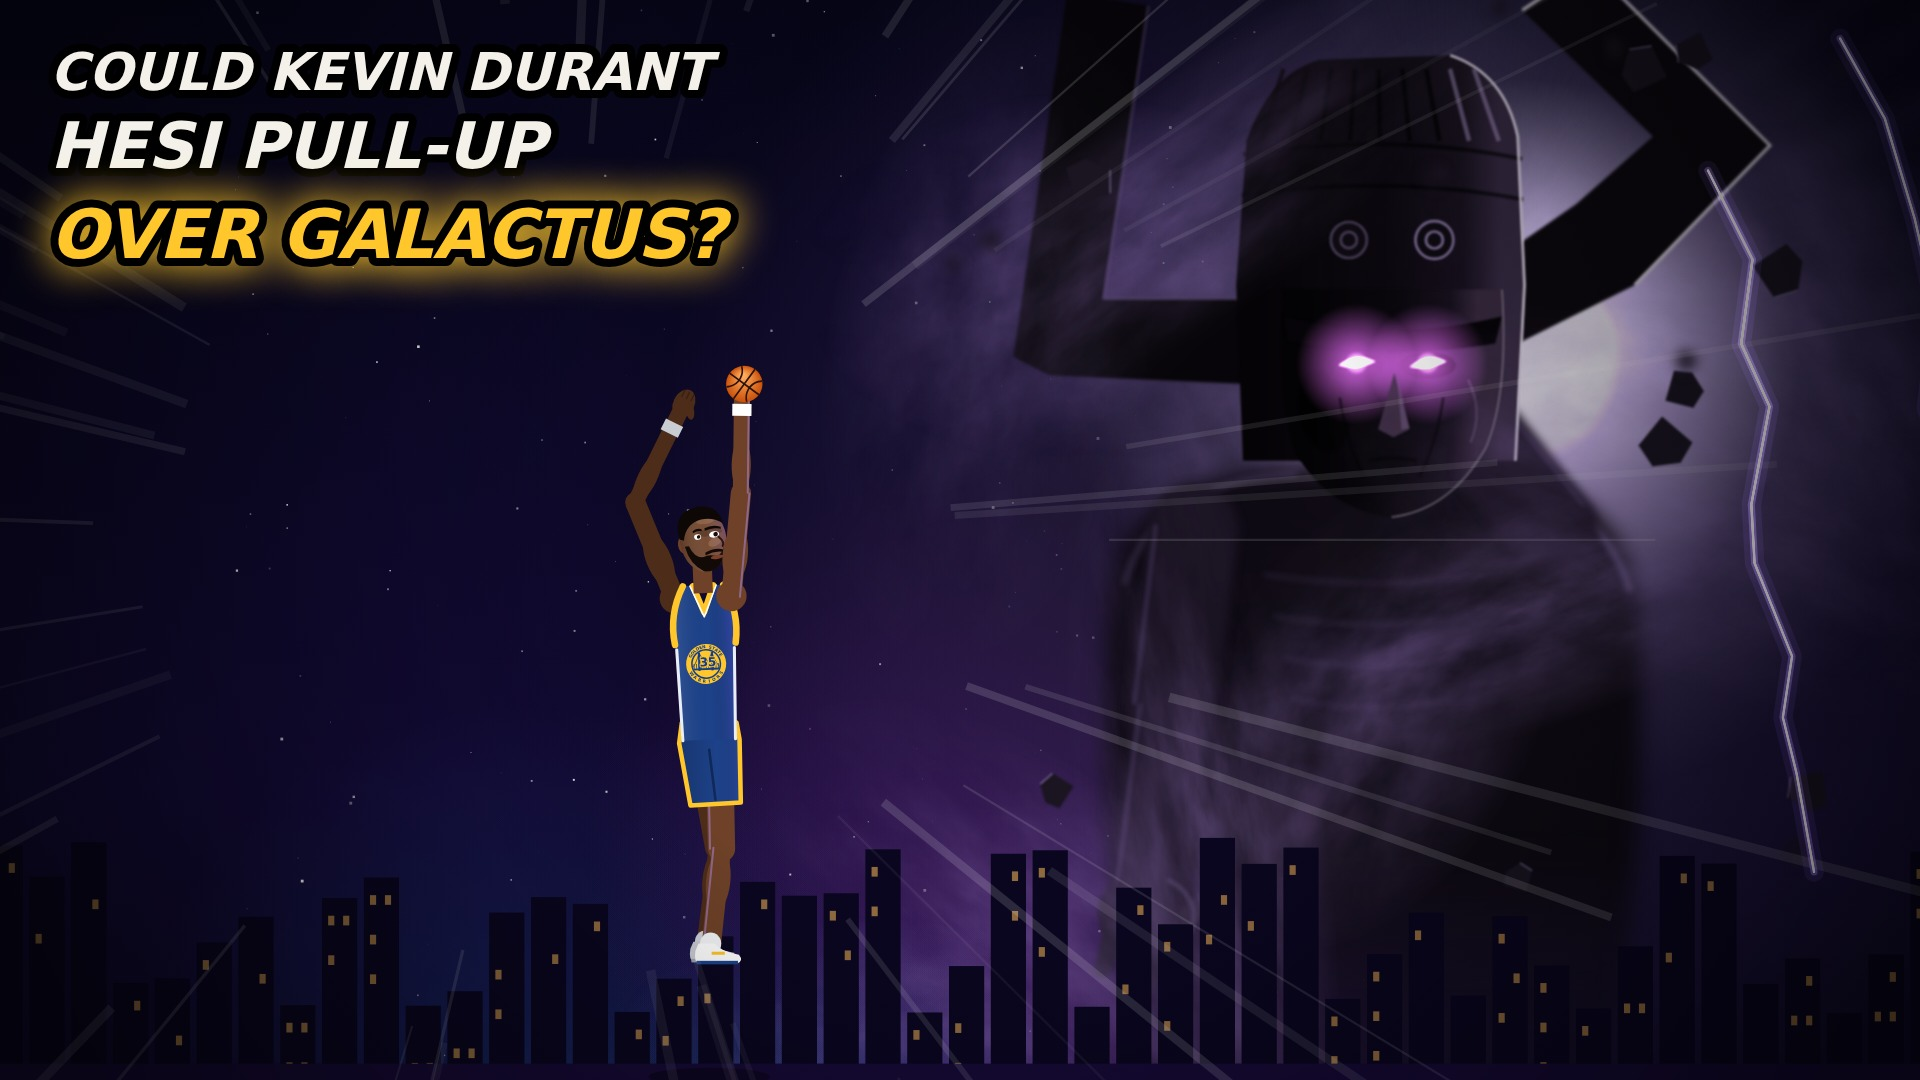
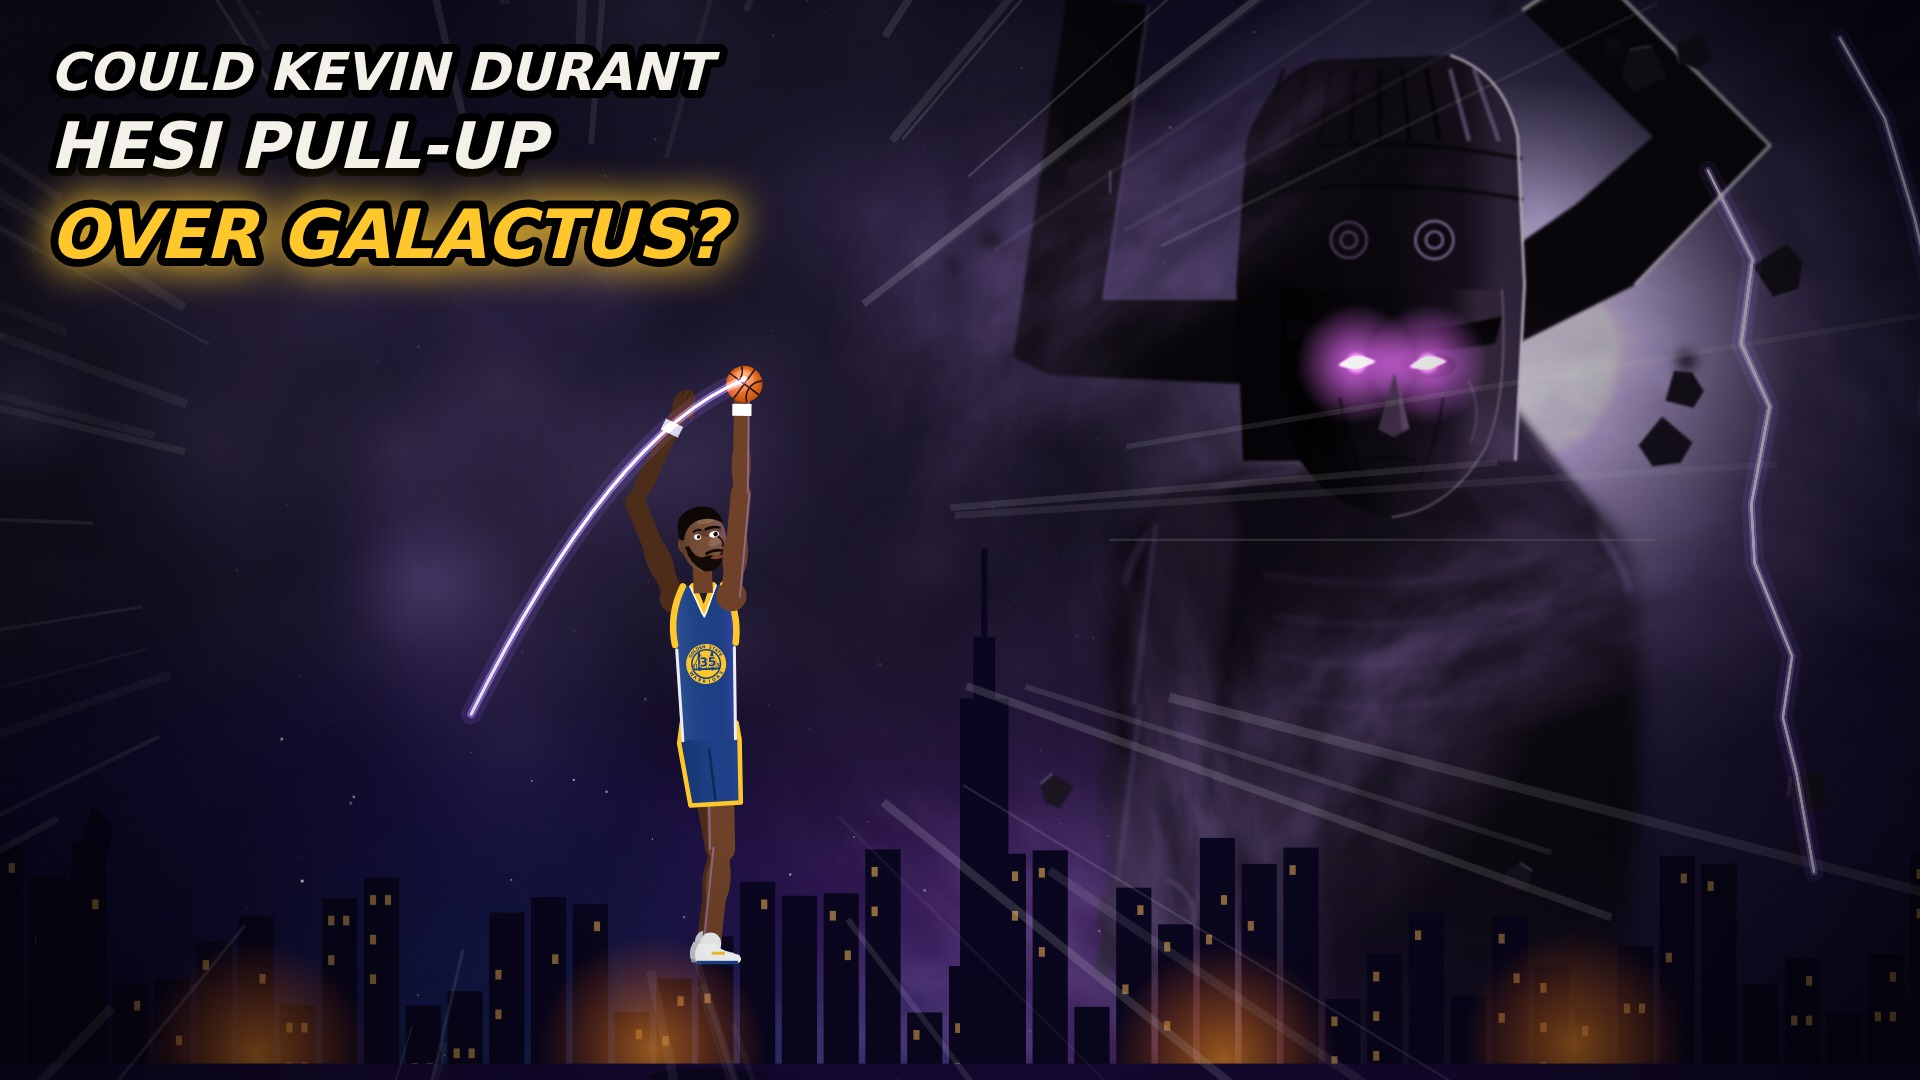
KD vs Galactus: 16:9 thumbnail v2 (storm clouds, skyline, ball trail)
Claude-Session: https://claude.ai/code/session_013waGN2ARspf4yShZssZUe5

diff --git a/youtube/you-experiment/kd-galactus/source_code/thumb16.html b/youtube/you-experiment/kd-galactus/source_code/thumb16.html
@@ -256,6 +256,8 @@ window.renderThumb = () => { T = 2.2; g.setTransform(1, 0, 0, 1, 0, 0);
   g.save(); cam(Z16, FX16, FY16); nebula(0, 0); planet(560, 2700, 1100, 0.9);
   // storm glow behind the giant
   const gl = g.createRadialGradient(1900, 300, 50, 1900, 300, 1700); gl.addColorStop(0, 'rgba(190,150,255,0.55)'); gl.addColorStop(1, 'rgba(120,80,220,0)'); g.fillStyle = gl; g.fillRect(-2000, -2000, 8000, 6000);
+  for (let k = 0; k < 90; k++) { const cx = -1800 + hash(k * 3 + 1) * 3200, cy = -900 + hash(k * 5 + 2) * 1500, r = 260 + hash(k * 7 + 3) * 520, dk = 0.35 + hash(k * 11 + 4) * 0.5; const q = g.createRadialGradient(cx, cy, 10, cx, cy, r); q.addColorStop(0, `rgba(${40 + 50 * (1 - dk) | 0},${34 + 40 * (1 - dk) | 0},${60 + 50 * (1 - dk) | 0},${0.55 * dk})`); q.addColorStop(1, 'rgba(10,8,25,0)'); g.fillStyle = q; g.fillRect(cx - r, cy - r, 2 * r, 2 * r); }
+  for (let k = 0; k < 30; k++) { const cx = -1800 + hash(k * 13 + 5) * 3000, cy = -400 + hash(k * 17 + 6) * 1200, r = 140 + hash(k * 19) * 260; const q = g.createRadialGradient(cx, cy, 5, cx, cy, r); q.addColorStop(0, 'rgba(150,120,200,0.16)'); q.addColorStop(1, 'rgba(100,70,170,0)'); g.fillStyle = q; g.fillRect(cx - r, cy - r, 2 * r, 2 * r); }
   giant(GX16, 1560, 1.05, { hand: HAND16, eyes: 1.9 });
   // purple lightning
   g.save(); g.globalCompositeOperation = 'lighter'; g.lineJoin = 'round'; g.lineCap = 'round';
@@ -263,11 +265,15 @@ window.renderThumb = () => { T = 2.2; g.setTransform(1, 0, 0, 1, 0, 0);
     for (const [w, a, col] of [[44, 0.12, '150,110,255'], [16, 0.35, '190,160,255'], [5, 0.95, '240,230,255']]) { g.strokeStyle = `rgba(${col},${a})`; g.lineWidth = w; g.beginPath(); pts.forEach(([px, py], k) => k ? g.lineTo(px, py) : g.moveTo(px, py)); g.stroke(); } }
   g.restore();
   g.fillStyle = '#0a0620'; for (let k = 0; k < 60; k++) { const bx = -1500 + k * 95, bh = 140 + hash(k * 3 + 1) * 420; g.fillRect(bx, 1560 - bh, 80, bh + 400); g.fillStyle = 'rgba(255,190,90,0.55)'; for (let w = 0; w < 5; w++) if (hash(k * 7 + w) > 0.6) g.fillRect(bx + 14 + (w % 2) * 34, 1560 - bh + 40 + Math.floor(w / 2) * 90, 14, 22); g.fillStyle = '#0a0620'; }
+  g.fillStyle = '#0a0620'; g.fillRect(900, 700, 110, 900); g.fillRect(930, 560, 50, 150); g.fillRect(948, 360, 14, 210);
+  g.fillStyle = '#0a0620'; g.fillRect(-1200, 1180, 90, 420); g.beginPath(); g.arc(-1155, 1150, 46, 0, 7); g.fill(); g.fillRect(-1105, 1020, 18, 140); g.beginPath(); g.moveTo(-1096, 1010); for (let a = 0; a < 7; a++) g.lineTo(-1096 + Math.cos(-1.2 + a * 0.35) * 70, 1010 + Math.sin(-1.2 + a * 0.35) * 70); g.fill();
+  for (const [fx, fy] of [[200, 1500], [1500, 1520], [2300, 1490], [-700, 1510]]) { const q = g.createRadialGradient(fx, fy, 5, fx, fy, 260); q.addColorStop(0, 'rgba(255,150,40,0.7)'); q.addColorStop(1, 'rgba(255,90,20,0)'); g.fillStyle = q; g.fillRect(fx - 260, fy - 260, 520, 520); }
   g.fillStyle = '#160a36'; g.fillRect(-2000, 1530, 8000, 800);
   kd(KDX16, 1560, KS16, P.shoot, { jump: 260, holdBall: true });
+  g.save(); g.globalCompositeOperation = 'lighter'; g.lineCap = 'round'; for (const [w, a, col] of [[46, 0.12, '150,110,255'], [18, 0.4, '190,150,255'], [6, 0.95, '245,235,255']]) { g.strokeStyle = `rgba(${col},${a})`; g.lineWidth = w; g.beginPath(); g.moveTo(BX16 - 620, BY16 + 760); g.quadraticCurveTo(BX16 - 300, BY16 + 120, BX16, BY16); g.stroke(); } g.restore();
   g.restore(); speedLines(560, 540, 0.2);
   const vg = g.createRadialGradient(W / 2, H / 2, H * 0.35, W / 2, H / 2, H * 0.95); vg.addColorStop(0, 'rgba(0,0,0,0)'); vg.addColorStop(1, 'rgba(0,0,0,0.6)'); g.fillStyle = vg; g.fillRect(0, 0, W, H);
   txt('COULD KEVIN DURANT', 50, 90, 64, C.white, { align: 'left', maxW: 700 }); txt('HESI PULL-UP', 50, 168, 64, C.white, { align: 'left', maxW: 700 }); txt('OVER GALACTUS?', 50, 258, 88, C.gold, { align: 'left', glow: C.gold, maxW: 700 }); return true; };
-const Z16 = 0.44, FX16 = 900, FY16 = 340, GX16 = 1840, HAND16 = 0.9, KDX16 = 330, KS16 = 1.15;
+const BX16 = 409, BY16 = -24, Z16 = 0.44, FX16 = 900, FY16 = 340, GX16 = 1840, HAND16 = 0.9, KDX16 = 330, KS16 = 1.15;
 fetch('./words.json').then((r) => r.json()).then((w) => { WORDS = w; window.ready = true; });
 </script></body></html>
